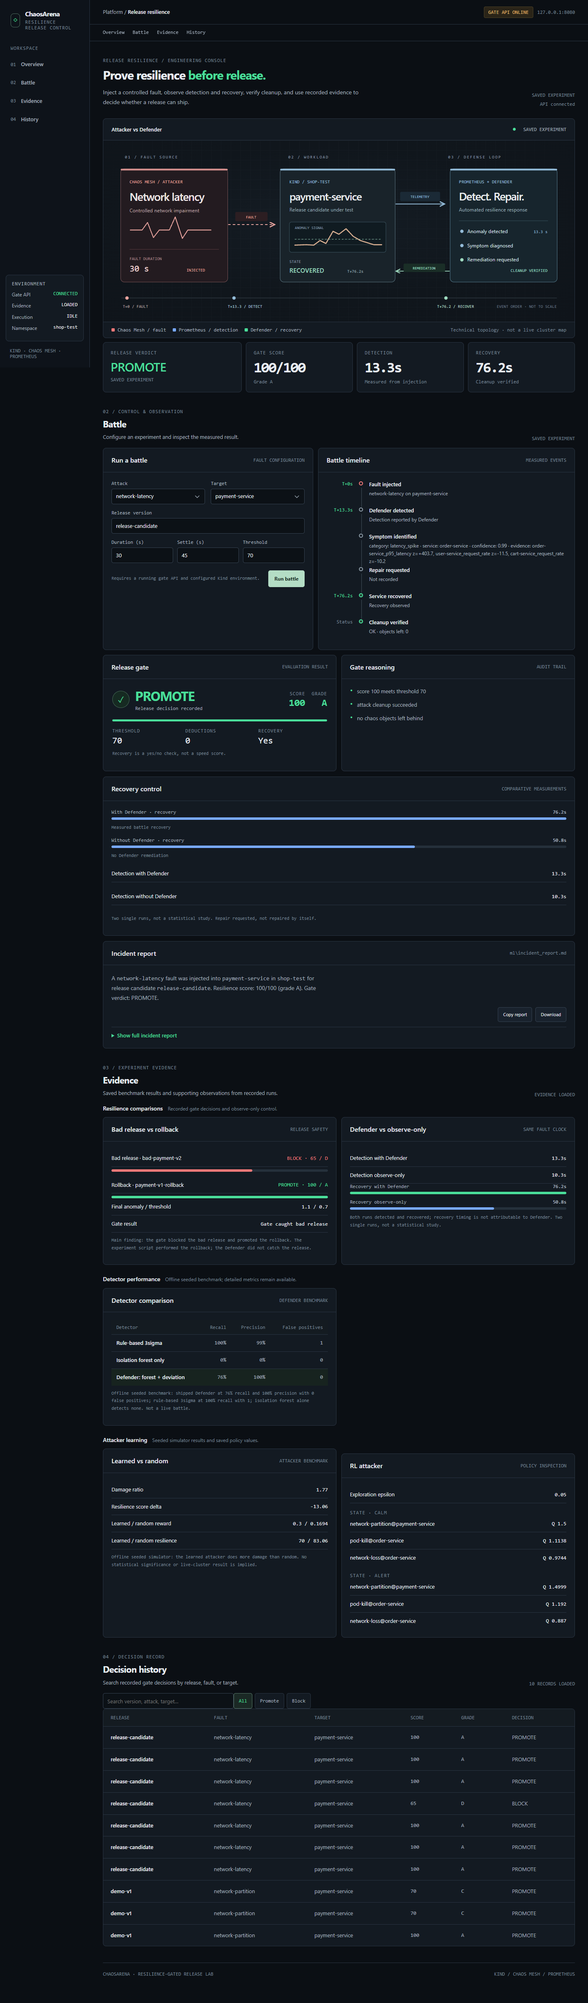
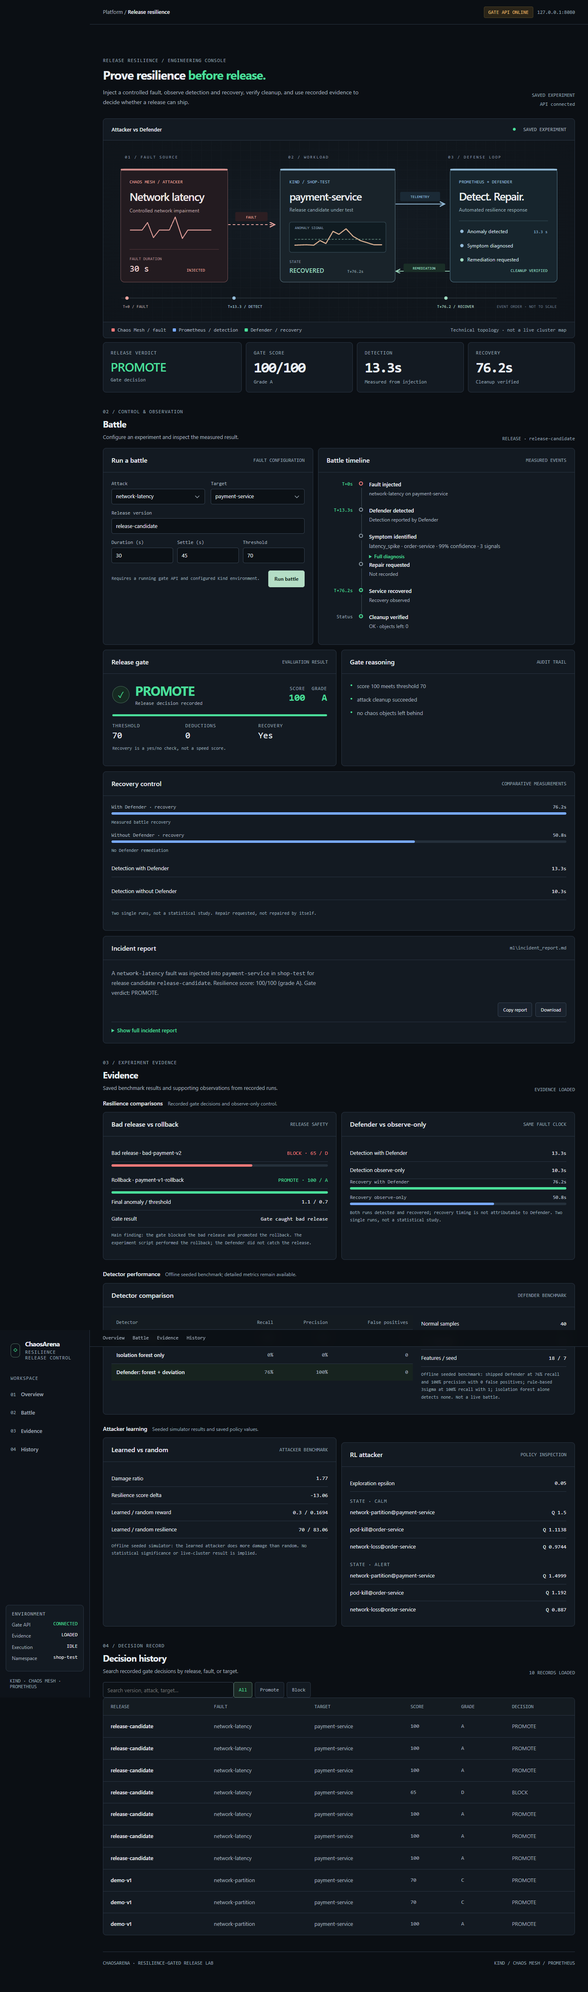
Final targeted refinement: diagnosis detail, detector width, metadata contrast

diff --git a/dashboard/src/App.jsx b/dashboard/src/App.jsx
@@ -17,7 +17,33 @@ function Status({children,tone=''}){return <span className={`status ${tone}`}>{c
 function Panel({title,subtitle,children,className=''}){return <div className={`panel ${className}`}><div className="panelheader"><h3>{title}</h3><small>{subtitle}</small></div>{children}</div>}
 function Field({name,label,form,setForm,options,min,max}){const value=form[name];return <div className="field"><label htmlFor={name}>{label}</label>{options?<select id={name} value={value} onChange={e=>setForm(f=>({...f,[name]:e.target.value}))}>{options.map(x=><option key={x} value={x}>{x}</option>)}</select>:<input id={name} type={name==='version'?'text':'number'} min={min} max={max} required value={value} onChange={e=>setForm(f=>({...f,[name]:name==='version'?e.target.value:e.target.value===''?'':Number(e.target.value)}))}/>}</div>}
 function Metric({label,value,sub,tone=''}){return <div className="panel kpi"><div className="overline">{label}</div><div className={`number ${tone}`}>{value}</div><div className="sub">{sub}</div></div>}
-function Timeline({battle}){if(!battle)return <div className="state">No battle evidence is available. Start the gate API to inspect a recorded experiment.</div>;const objects=battle.chaos_objects_left??battle.chaos_objects_remaining??battle.objects_left;const events=[['T+0s','Fault injected',`${show(battle.attack,'Fault')} on ${show(battle.target,'target')}`,'red'],[battle.detected===false?'Not detected':hasNumber(battle.detection_seconds)?`T+${fmt(battle.detection_seconds,'s')}`:'Unmeasured','Defender detected',battle.detected===false?'No detection recorded':'Detection reported by Defender',''],['','Symptom identified',describe(battle.diagnosis??battle.diagnosis_category),''],['','Repair requested',`${describe(battle.requested_action??battle.action)}${battle.requested_service?' · '+battle.requested_service:''}`,''],[hasNumber(battle.recovery_seconds)?`T+${fmt(battle.recovery_seconds,'s')}`:'Unmeasured','Service recovered',battle.recovered===false?'Recovery not observed':battle.recovered===true?'Recovery observed':'Recovery status not recorded','green'],['Status','Cleanup verified',`${battle.cleanup_ok===true?'OK':battle.cleanup_ok===false?'FAILED':'Not recorded'} · objects left: ${describe(objects)}` ,battle.cleanup_ok===true?'green':battle.cleanup_ok===false?'red':'']];return <div className="timeline">{events.map(([time,title,description,tone],i)=><div className="event" key={i}><div className={`time ${time.startsWith('T+')?'measured':''}`}>{time}</div><div className={`pin ${tone}`}/><div><b>{title}</b><p>{description}</p></div></div>)}</div>}
+function diagnosisSummary(value){
+  if(!value)return 'No diagnosis recorded.';
+  if(typeof value==='string')return value;
+  const category=show(value.category??value.diagnosis_category,'Unclassified');
+  const service=show(value.service??value.requested_service,'service not recorded');
+  const confidence=hasNumber(value.confidence)?` · ${Math.round(value.confidence*100)}% confidence`:'';
+  const signals=Array.isArray(value.evidence)?` · ${value.evidence.length} signals`:'';
+  return `${category} · ${service}${confidence}${signals}`;
+}
+function diagnosisJson(value){
+  if(!value)return 'No diagnosis recorded.';
+  return typeof value==='string'?value:JSON.stringify(value,null,2);
+}
+function Timeline({battle}){
+  if(!battle)return <div className="state">No battle evidence is available. Start the gate API to inspect a recorded experiment.</div>;
+  const objects=battle.chaos_objects_left??battle.chaos_objects_remaining??battle.objects_left;
+  const diagnosis=battle.diagnosis??battle.diagnosis_category;
+  const events=[
+    ['T+0s','Fault injected',`${show(battle.attack,'Fault')} on ${show(battle.target,'target')}`,'red'],
+    [battle.detected===false?'Not detected':hasNumber(battle.detection_seconds)?`T+${fmt(battle.detection_seconds,'s')}`:'Unmeasured','Defender detected',battle.detected===false?'No detection recorded':'Detection reported by Defender',''],
+    ['','Symptom identified',<div className="diagnosis-block"><div className="diagnosis-summary">{diagnosisSummary(diagnosis)}</div><details className="diagnostic-details"><summary>Full diagnosis</summary><pre>{diagnosisJson(diagnosis)}</pre></details></div>,''],
+    ['','Repair requested',`${describe(battle.requested_action??battle.action)}${battle.requested_service?' · '+battle.requested_service:''}`,''],
+    [hasNumber(battle.recovery_seconds)?`T+${fmt(battle.recovery_seconds,'s')}`:'Unmeasured','Service recovered',battle.recovered===false?'Recovery not observed':battle.recovered===true?'Recovery observed':'Recovery status not recorded','green'],
+    ['Status','Cleanup verified',`${battle.cleanup_ok===true?'OK':battle.cleanup_ok===false?'FAILED':'Not recorded'} · objects left: ${describe(objects)}`,battle.cleanup_ok===true?'green':battle.cleanup_ok===false?'red':'']
+  ];
+  return <div className="timeline">{events.map(([time,title,description,tone],i)=><div className="event" key={i}><div className={`time ${time.startsWith('T+')?'measured':''}`}>{time}</div><div className={`pin ${tone}`}/><div><b>{title}</b>{typeof description==='string'?<p>{description}</p>:description}</div></div>)}</div>;
+}
 function Gate({result,threshold}){
   const score=result?.score?.score??result?.decision?.score;
   const verdict=result?.decision?.verdict;
@@ -134,12 +160,19 @@ function Evidence({evidence,policy,loading}){
     </section>
     <section className="evidence-group">
       <div className="evidence-group-head"><h3>Detector performance</h3><p>Offline seeded benchmark; detailed metrics remain available.</p></div>
-      <div className="benchmark-grid">
-        <Panel title="Detector comparison" subtitle="DEFENDER BENCHMARK"><div className="cardbody">
-          {loading?<div className="state">Loading detectors.</div>:detectors&&Object.keys(detectors).length?<div className="tablewrap"><table className="compact-table"><thead><tr><th>Detector</th><th className="n">Recall</th><th className="n">Precision</th><th className="n">False positives</th></tr></thead><tbody>{Object.entries(detectors).map(([name,data])=><tr key={name} className={name==='defender_forest_plus_deviation'?'self':''}><td>{DETECTOR_LABELS[name]||name}</td><td className="n">{data.recall!=null?rate(data.recall):'—'}</td><td className="n">{data.precision!=null?rate(data.precision):'—'}</td><td className="n">{data.false_positives??'—'}</td></tr>)}</tbody></table></div>:<div className="state">No detector benchmark available.</div>}
-          <p className="recovery-note">Offline seeded benchmark: shipped Defender at {rate(shipped?.recall)} recall and {rate(shipped?.precision)} precision with {shipped?.false_positives??'—'} false positives; rule-based 3sigma at {rate(rule?.recall)} recall with {rule?.false_positives??'—'}; {isoText}. Not a live battle.</p>
-        </div></Panel>
-      </div>
+      <Panel title="Detector comparison" subtitle="DEFENDER BENCHMARK"><div className="cardbody">
+        <div className="detector-layout">
+          <div className="detector-table">
+            {loading?<div className="state">Loading detectors.</div>:detectors&&Object.keys(detectors).length?<div className="tablewrap"><table className="compact-table"><thead><tr><th>Detector</th><th className="n">Recall</th><th className="n">Precision</th><th className="n">False positives</th></tr></thead><tbody>{Object.entries(detectors).map(([name,data])=><tr key={name} className={name==='defender_forest_plus_deviation'?'self':''}><td>{DETECTOR_LABELS[name]||name}</td><td className="n">{data.recall!=null?rate(data.recall):'—'}</td><td className="n">{data.precision!=null?rate(data.precision):'—'}</td><td className="n">{data.false_positives??'—'}</td></tr>)}</tbody></table></div>:<div className="state">No detector benchmark available.</div>}
+          </div>
+          <div className="detector-notes">
+            <div className="metric-row"><span>Normal samples</span><strong>{show(evidence?.defender_benchmark?.dataset?.normal,'—')}</strong></div>
+            <div className="metric-row"><span>Fault injections</span><strong>{show(evidence?.defender_benchmark?.dataset?.attacks,'—')}</strong></div>
+            <div className="metric-row"><span>Features / seed</span><strong>{show(evidence?.defender_benchmark?.dataset?.features,'—')} / {show(evidence?.defender_benchmark?.dataset?.seed,'—')}</strong></div>
+            <p className="recovery-note">Offline seeded benchmark: shipped Defender at {rate(shipped?.recall)} recall and {rate(shipped?.precision)} precision with {shipped?.false_positives??'—'} false positives; rule-based 3sigma at {rate(rule?.recall)} recall with {rule?.false_positives??'—'}; {isoText}. Not a live battle.</p>
+          </div>
+        </div>
+      </div></Panel>
     </section>
     <section className="evidence-group">
       <div className="evidence-group-head"><h3>Attacker learning</h3><p>Seeded simulator results and saved policy values.</p></div>
@@ -166,4 +199,4 @@ function Evidence({evidence,policy,loading}){
 function History({items,loading,error}){const [query,setQuery]=useState('');const [filter,setFilter]=useState('ALL');const filtered=useMemo(()=>items.filter(r=>(filter==='ALL'||r.verdict===filter)&&[r.version,r.attack,r.target,r.verdict,r.score].join(' ').toLowerCase().includes(query.toLowerCase())),[items,query,filter]);return <><div className="history-tools"><input className="search" value={query} onChange={e=>setQuery(e.target.value)} aria-label="Search decisions" placeholder="Search version, attack, target…"/><div className="filters">{['ALL','PROMOTE','BLOCK'].map(x=><button type="button" className={filter===x?'active':''} key={x} onClick={()=>setFilter(x)}>{x==='ALL'?'All':x==='PROMOTE'?'Promote':'Block'}</button>)}</div></div><div className="panel tablewrap"><table><thead><tr>{['RELEASE','FAULT','TARGET','SCORE','GRADE','DECISION'].map(x=><th key={x}>{x}</th>)}</tr></thead><tbody>{filtered.map((r,i)=><tr key={`${r.id??r.version??'decision'}-${i}`}><td>{show(r.version,'—')}</td><td>{show(r.attack,'—')}</td><td>{show(r.target,'—')}</td><td className="mono">{show(r.score,'—')}</td><td className="mono">{show(r.grade??(hasNumber(r.score)?grade(r.score):null),'—')}</td><td><span className={`pill ${cls(r.verdict)}`}>{show(r.verdict,'—')}</span></td></tr>)}</tbody></table>{loading?<div className="empty">Loading decision history…</div>:error?<div className="empty error">History unavailable: {error}</div>:!filtered.length?<div className="empty">{items.length?'No matching decisions.':'No decisions recorded.'}</div>:null}</div></>}
 export default function App(){const [form,setForm]=useState(DEFAULT_FORM);const [data,setData]=useState({});const [pending,setPending]=useState(true);const [running,setRunning]=useState(false);const [errors,setErrors]=useState({});const [toast,setToast]=useState('');const timer=useRef(null);const notify=useCallback(message=>{setToast(message);clearTimeout(timer.current);timer.current=setTimeout(()=>setToast(''),4200)},[]);useEffect(()=>()=>clearTimeout(timer.current),[])
 const refresh=useCallback(async()=>{setPending(true);const keys=['health','evidence','last','history','report','policy'];const results=await Promise.allSettled([getHealth(),getEvidence(),getLastGate(),getHistory(10),getReport(),getRlPolicy()]);const values={};const faults={};results.forEach((r,i)=>{if(r.status==='fulfilled')values[keys[i]]=r.value;else faults[keys[i]]=r.reason?.message||'Request failed'});setData(old=>({...old,...values}));setErrors(faults);setPending(false)},[]);useEffect(()=>{refresh()},[refresh]);const result=data.current??data.evidence?.last_battle??(data.last?.decision?{decision:data.last.decision}:null);const battle=result?.battle;const score=result?.score?.score??result?.decision?.score;const verdict=result?.decision?.verdict;const history=data.history?.decisions??[];const online=Boolean(data.health)&&!errors.health;const source=data.current?'NEW EXPERIMENT':data.evidence?.last_battle?'SAVED EXPERIMENT':'NO BATTLE DATA';const run=async e=>{e.preventDefault();if(!form.version.trim()||!Number.isFinite(form.duration)||form.duration<=0||!Number.isFinite(form.settle)||form.settle<0||!Number.isFinite(form.threshold)||form.threshold<0||form.threshold>100){notify('Check battle parameters.');return}setRunning(true);notify('Experiment submitted. Waiting for the gate API.');try{const result=await evaluate({...form,version:form.version.trim()});setData(old=>({...old,current:result}));notify('Gate evaluation completed.');const updates=await Promise.allSettled([getHistory(10),getReport(),getEvidence()]);setData(old=>({...old,...(updates[0].status==='fulfilled'?{history:updates[0].value}:{}),...(updates[1].status==='fulfilled'?{report:updates[1].value}:{}),...(updates[2].status==='fulfilled'?{evidence:updates[2].value}:{})}));}catch(err){notify(`Battle could not run: ${err.message}`)}finally{setRunning(false)}};const copy=async()=>{if(!data.report?.text){notify('No report to copy.');return}try{await navigator.clipboard.writeText(data.report.text);notify('Incident report copied.')}catch{notify('Clipboard unavailable.')}}
-const downloadReport=()=>{if(!data.report?.text){notify('No report to download.');return}const blob=new Blob([data.report.text],{type:'text/markdown'});const url=URL.createObjectURL(blob);const link=document.createElement('a');link.href=url;link.download='chaosarena-incident-report.md';link.click();URL.revokeObjectURL(url);notify('Incident report downloaded.')};return <div className="app"><aside className="sidebar"><div className="brand"><div className="brandmark">◇</div><div><div className="brandname">ChaosArena</div><div className="brandcaption">RESILIENCE RELEASE CONTROL</div></div></div><div className="navcap">WORKSPACE</div><nav className="nav" aria-label="Primary navigation">{['Overview','Battle','Evidence','History'].map((n,i)=><a href={`#${n.toLowerCase()}`} key={n}><span className="n">0{i+1}</span>{n}</a>)}</nav><div className="sideend"><div className="env"><div className="envtitle">ENVIRONMENT</div><div className="envline"><span>Gate API</span><strong className={online?'green':'amber'}>{pending?'CHECKING':online?'CONNECTED':'OFFLINE'}</strong></div><div className="envline"><span>Evidence</span><strong>{data.evidence?'LOADED':pending?'LOADING':'UNAVAILABLE'}</strong></div><div className="envline"><span>Execution</span><strong>{running?'RUNNING':'IDLE'}</strong></div><div className="envline"><span>Namespace</span><strong>shop-test</strong></div></div><div className="footnote">KIND · CHAOS MESH · PROMETHEUS</div></div></aside><div className="main"><header className="topbar"><div className="crumb">Platform / <strong>Release resilience</strong></div><div className="topright"><span className="mode">{running?'EXPERIMENT RUNNING':online?'GATE API ONLINE':'GATE API OFFLINE'}</span><span className="address">{import.meta.env.VITE_API_URL||'127.0.0.1:8080'}</span></div></header><nav className="subnav" aria-label="Section navigation">{['Overview','Battle','Evidence','History'].map(n=><a key={n} href={`#${n.toLowerCase()}`}>{n}</a>)}</nav><main className="container"><section className="section" id="overview"><div className="intro"><div><div className="overline">RELEASE RESILIENCE / ENGINEERING CONSOLE</div><h1>Prove resilience <span>before release.</span></h1><p>Inject a controlled fault, observe detection and recovery, verify cleanup, and use recorded evidence to decide whether a release can ship.</p></div><aside>{source}<div style={{marginTop:8}}>{pending?'Loading…':online?'API connected':'API unavailable'}</div></aside></div><div className="panel arena"><div className="arenahead"><strong>Attacker vs Defender</strong><div className="right"><span className="dot" style={{background:online?'var(--green)':'var(--amber)'}}/> {source}</div></div><div className="arenafigure" dangerouslySetInnerHTML={{__html:arenaSvg}}/><div className="arenacaption"><span className="key"><i className="red"/>Chaos Mesh / fault</span><span className="key"><i/>Prometheus / detection</span><span className="key"><i className="green"/>Defender / recovery</span><span className="last">Technical topology · not a live cluster map</span></div></div><div className="kpi-grid"><Metric label="RELEASE VERDICT" value={show(verdict,pending?'Loading…':'Unavailable')} sub={source} tone={verdict==='PROMOTE'?'promote':verdict==='BLOCK'?'block':''}/><Metric label="GATE SCORE" value={hasNumber(score)?`${score}/100`:'—'} sub={`Grade ${show(result?.score?.grade??result?.decision?.grade??(hasNumber(score)?grade(score):null),'—')}`}/><Metric label="DETECTION" value={fmt(battle?.detection_seconds,'s')} sub={battle?.detected===false?'Fault not detected':'Measured from injection'}/><Metric label="RECOVERY" value={fmt(battle?.recovery_seconds,'s')} sub={battle?.cleanup_ok===true?'Cleanup verified':battle?.cleanup_ok===false?'Cleanup failed':'Cleanup not recorded'}/></div></section><section className="section" id="battle"><div className="sectionheading"><div><div className="overline">02 / CONTROL & OBSERVATION</div><h2>Battle</h2><p>Configure an experiment and inspect the measured result.</p></div><div className="right">{running?'GATE EVALUATING':source}</div></div><div className="twocol"><Panel title="Run a battle" subtitle="FAULT CONFIGURATION"><form className="cardbody" onSubmit={run}><div className="fields"><Field name="attack" label="Attack" form={form} setForm={setForm} options={ATTACKS}/><Field name="target" label="Target" form={form} setForm={setForm} options={TARGETS}/><div className="field wide"><Field name="version" label="Release version" form={form} setForm={setForm}/></div></div><div className="three"><Field name="duration" label="Duration (s)" form={form} setForm={setForm} min={1}/><Field name="settle" label="Settle (s)" form={form} setForm={setForm} min={0}/><Field name="threshold" label="Threshold" form={form} setForm={setForm} min={0} max={100}/></div><div className="actions"><small>Requires a running gate API and configured Kind environment.</small><button className="btn" type="submit" disabled={running}>{running?'Running experiment…':'Run battle'}</button></div>{errors.health&&<p className="note error">Gate API unavailable. Saved evidence may still be displayed if previously loaded.</p>}</form></Panel><Panel title="Battle timeline" subtitle="MEASURED EVENTS"><Timeline battle={battle}/></Panel></div><Gate result={result} threshold={form.threshold}/><div style={{marginTop:13}}><Panel title="Recovery control" subtitle="COMPARATIVE MEASUREMENTS"><div className="cardbody"><Compare evidence={data.evidence} battle={battle}/></div></Panel></div><details className="panel" open style={{marginTop:13}}><summary className="panelheader"><h3>Incident report</h3><small>{show(data.report?.file,'LATEST REPORT')}</small></summary><div className="cardbody"><p className="report-summary">{inlineText(reportSummary(data.report?.text))}</p><div style={{display:'flex',justifyContent:'flex-end',gap:8,marginBottom:12}}><button className="btnsub" type="button" onClick={copy} disabled={!data.report?.text}>Copy report</button><button className="btnsub" type="button" onClick={downloadReport} disabled={!data.report?.text}>Download</button></div><details className="report-disclosure"><summary>Show full incident report</summary><div className="reportbody">{pending && !data.report?.text ? <p className="state">Loading incident report.</p> : errors.report ? <p className="state">Incident report unavailable.</p> : <ReportView text={data.report?.text} />}</div></details></div></details></section><section className="section" id="evidence"><div className="sectionheading"><div><div className="overline">03 / EXPERIMENT EVIDENCE</div><h2>Evidence</h2><p>Saved benchmark results and supporting observations from recorded runs.</p></div><div className="right">{data.evidence?'EVIDENCE LOADED':pending?'LOADING':'UNAVAILABLE'}</div></div><Evidence evidence={data.evidence} policy={data.policy} loading={pending}/></section><section className="section" id="history"><div className="sectionheading"><div><div className="overline">04 / DECISION RECORD</div><h2>Decision history</h2><p>Search recorded gate decisions by release, fault, or target.</p></div><div className="right">{history.length} RECORDS LOADED</div></div><History items={history} loading={pending} error={errors.history}/></section><footer className="footer"><span>CHAOSARENA · RESILIENCE-GATED RELEASE LAB</span><span>KIND / CHAOS MESH / PROMETHEUS</span></footer></main></div>{toast&&<div className="toast" role="status">{toast}</div>}</div>}
+const downloadReport=()=>{if(!data.report?.text){notify('No report to download.');return}const blob=new Blob([data.report.text],{type:'text/markdown'});const url=URL.createObjectURL(blob);const link=document.createElement('a');link.href=url;link.download='chaosarena-incident-report.md';link.click();URL.revokeObjectURL(url);notify('Incident report downloaded.')};return <div className="app"><aside className="sidebar"><div className="brand"><div className="brandmark">◇</div><div><div className="brandname">ChaosArena</div><div className="brandcaption">RESILIENCE RELEASE CONTROL</div></div></div><div className="navcap">WORKSPACE</div><nav className="nav" aria-label="Primary navigation">{['Overview','Battle','Evidence','History'].map((n,i)=><a href={`#${n.toLowerCase()}`} key={n}><span className="n">0{i+1}</span>{n}</a>)}</nav><div className="sideend"><div className="env"><div className="envtitle">ENVIRONMENT</div><div className="envline"><span>Gate API</span><strong className={online?'green':'amber'}>{pending?'CHECKING':online?'CONNECTED':'OFFLINE'}</strong></div><div className="envline"><span>Evidence</span><strong>{data.evidence?'LOADED':pending?'LOADING':'UNAVAILABLE'}</strong></div><div className="envline"><span>Execution</span><strong>{running?'RUNNING':'IDLE'}</strong></div><div className="envline"><span>Namespace</span><strong>shop-test</strong></div></div><div className="footnote">KIND · CHAOS MESH · PROMETHEUS</div></div></aside><div className="main"><header className="topbar"><div className="crumb">Platform / <strong>Release resilience</strong></div><div className="topright"><span className="mode">{running?'EXPERIMENT RUNNING':online?'GATE API ONLINE':'GATE API OFFLINE'}</span><span className="address">{import.meta.env.VITE_API_URL||'127.0.0.1:8080'}</span></div></header><nav className="subnav" aria-label="Section navigation">{['Overview','Battle','Evidence','History'].map(n=><a key={n} href={`#${n.toLowerCase()}`}>{n}</a>)}</nav><main className="container"><section className="section" id="overview"><div className="intro"><div><div className="overline">RELEASE RESILIENCE / ENGINEERING CONSOLE</div><h1>Prove resilience <span>before release.</span></h1><p>Inject a controlled fault, observe detection and recovery, verify cleanup, and use recorded evidence to decide whether a release can ship.</p></div><aside>{source}<div style={{marginTop:8}}>{pending?'Loading…':online?'API connected':'API unavailable'}</div></aside></div><div className="panel arena"><div className="arenahead"><strong>Attacker vs Defender</strong><div className="right"><span className="dot" style={{background:online?'var(--green)':'var(--amber)'}}/> {source}</div></div><div className="arenafigure" dangerouslySetInnerHTML={{__html:arenaSvg}}/><div className="arenacaption"><span className="key"><i className="red"/>Chaos Mesh / fault</span><span className="key"><i/>Prometheus / detection</span><span className="key"><i className="green"/>Defender / recovery</span><span className="last">Technical topology · not a live cluster map</span></div></div><div className="kpi-grid"><Metric label="RELEASE VERDICT" value={show(verdict,pending?'Loading…':'Unavailable')} sub={verdict?'Gate decision':'Awaiting gate evidence'} tone={verdict==='PROMOTE'?'promote':verdict==='BLOCK'?'block':''}/><Metric label="GATE SCORE" value={hasNumber(score)?`${score}/100`:'—'} sub={`Grade ${show(result?.score?.grade??result?.decision?.grade??(hasNumber(score)?grade(score):null),'—')}`}/><Metric label="DETECTION" value={fmt(battle?.detection_seconds,'s')} sub={battle?.detected===false?'Fault not detected':'Measured from injection'}/><Metric label="RECOVERY" value={fmt(battle?.recovery_seconds,'s')} sub={battle?.cleanup_ok===true?'Cleanup verified':battle?.cleanup_ok===false?'Cleanup failed':'Cleanup not recorded'}/></div></section><section className="section" id="battle"><div className="sectionheading"><div><div className="overline">02 / CONTROL & OBSERVATION</div><h2>Battle</h2><p>Configure an experiment and inspect the measured result.</p></div><div className="right">{running?'GATE EVALUATING':`RELEASE · ${show(result?.decision?.version,'AWAITING RELEASE')}`}</div></div><div className="twocol"><Panel title="Run a battle" subtitle="FAULT CONFIGURATION"><form className="cardbody" onSubmit={run}><div className="fields"><Field name="attack" label="Attack" form={form} setForm={setForm} options={ATTACKS}/><Field name="target" label="Target" form={form} setForm={setForm} options={TARGETS}/><div className="field wide"><Field name="version" label="Release version" form={form} setForm={setForm}/></div></div><div className="three"><Field name="duration" label="Duration (s)" form={form} setForm={setForm} min={1}/><Field name="settle" label="Settle (s)" form={form} setForm={setForm} min={0}/><Field name="threshold" label="Threshold" form={form} setForm={setForm} min={0} max={100}/></div><div className="actions"><small>Requires a running gate API and configured Kind environment.</small><button className="btn" type="submit" disabled={running}>{running?'Running experiment…':'Run battle'}</button></div>{errors.health&&<p className="note error">Gate API unavailable. Saved evidence may still be displayed if previously loaded.</p>}</form></Panel><Panel title="Battle timeline" subtitle="MEASURED EVENTS"><Timeline battle={battle}/></Panel></div><Gate result={result} threshold={form.threshold}/><div style={{marginTop:13}}><Panel title="Recovery control" subtitle="COMPARATIVE MEASUREMENTS"><div className="cardbody"><Compare evidence={data.evidence} battle={battle}/></div></Panel></div><details className="panel" open style={{marginTop:13}}><summary className="panelheader"><h3>Incident report</h3><small>{show(data.report?.file,'LATEST REPORT')}</small></summary><div className="cardbody"><p className="report-summary">{inlineText(reportSummary(data.report?.text))}</p><div style={{display:'flex',justifyContent:'flex-end',gap:8,marginBottom:12}}><button className="btnsub" type="button" onClick={copy} disabled={!data.report?.text}>Copy report</button><button className="btnsub" type="button" onClick={downloadReport} disabled={!data.report?.text}>Download</button></div><details className="report-disclosure"><summary>Show full incident report</summary><div className="reportbody">{pending && !data.report?.text ? <p className="state">Loading incident report.</p> : errors.report ? <p className="state">Incident report unavailable.</p> : <ReportView text={data.report?.text} />}</div></details></div></details></section><section className="section" id="evidence"><div className="sectionheading"><div><div className="overline">03 / EXPERIMENT EVIDENCE</div><h2>Evidence</h2><p>Saved benchmark results and supporting observations from recorded runs.</p></div><div className="right">{data.evidence?'EVIDENCE LOADED':pending?'LOADING':'UNAVAILABLE'}</div></div><Evidence evidence={data.evidence} policy={data.policy} loading={pending}/></section><section className="section" id="history"><div className="sectionheading"><div><div className="overline">04 / DECISION RECORD</div><h2>Decision history</h2><p>Search recorded gate decisions by release, fault, or target.</p></div><div className="right">{history.length} RECORDS LOADED</div></div><History items={history} loading={pending} error={errors.history}/></section><footer className="footer"><span>CHAOSARENA · RESILIENCE-GATED RELEASE LAB</span><span>KIND / CHAOS MESH / PROMETHEUS</span></footer></main></div>{toast&&<div className="toast" role="status">{toast}</div>}</div>}

diff --git a/dashboard/src/styles.css b/dashboard/src/styles.css
@@ -8,7 +8,7 @@
   --line2: #344150;
   --text: #e8edf3;
   --muted: #a3afbd;
-  --dim: #788696;
+  --dim: #94a2b0;
   --green: #4ade9a;
   --green-bg: #162a22;
   --red: #f17878;
@@ -615,6 +615,33 @@ button:focus-visible, a:focus-visible, input:focus-visible, select:focus-visible
   color: var(--muted);
   font-size: 12px;
 }
+.diagnosis-summary {
+  margin-top: 2px;
+  color: var(--muted);
+  font-size: 13px;
+  line-height: 1.5;
+}
+.diagnostic-details { margin-top: 6px; }
+.diagnostic-details summary {
+  cursor: pointer;
+  color: var(--green);
+  font-size: 12px;
+  font-weight: 600;
+}
+.diagnostic-details summary::marker { color: var(--green); }
+.diagnostic-details pre {
+  margin: 8px 0 0;
+  padding: 10px 12px;
+  max-height: 220px;
+  overflow: auto;
+  border: 1px solid var(--line);
+  border-radius: 5px;
+  background: #0c1116;
+  font: 12px/1.6 var(--mono);
+  color: var(--muted);
+  white-space: pre-wrap;
+  overflow-wrap: anywhere;
+}
 
 .gategrid {
   display: grid;
@@ -768,6 +795,13 @@ button:focus-visible, a:focus-visible, input:focus-visible, select:focus-visible
   grid-template-columns: repeat(2, minmax(0, 1fr));
   gap: 12px;
 }
+.detector-layout {
+  display: grid;
+  grid-template-columns: minmax(0, 1.35fr) minmax(220px, 0.65fr);
+  gap: 20px;
+  align-items: start;
+}
+.detector-table, .detector-notes { min-width: 0; }
 .score-compare, .track-pair { display: grid; gap: 12px; }
 .compare-row .track { margin-top: 6px; }
 .block-text { color: var(--red) !important; }
@@ -1032,7 +1066,7 @@ table.compact-table { min-width: 0; }
 @media (max-width: 1100px) {
   .kpis, .kpi-grid { grid-template-columns: repeat(2, 1fr); }
   .evidencegrid { grid-template-columns: repeat(2, 1fr); }
-  .benchmark-grid { grid-template-columns: 1fr; }
+  .benchmark-grid, .detector-layout { grid-template-columns: 1fr; }
   .twocol { grid-template-columns: 1fr; }
   .gateverdict { flex-wrap: wrap; }
   .decision-pair { margin-left: 56px; text-align: left; padding-left: 0; }
